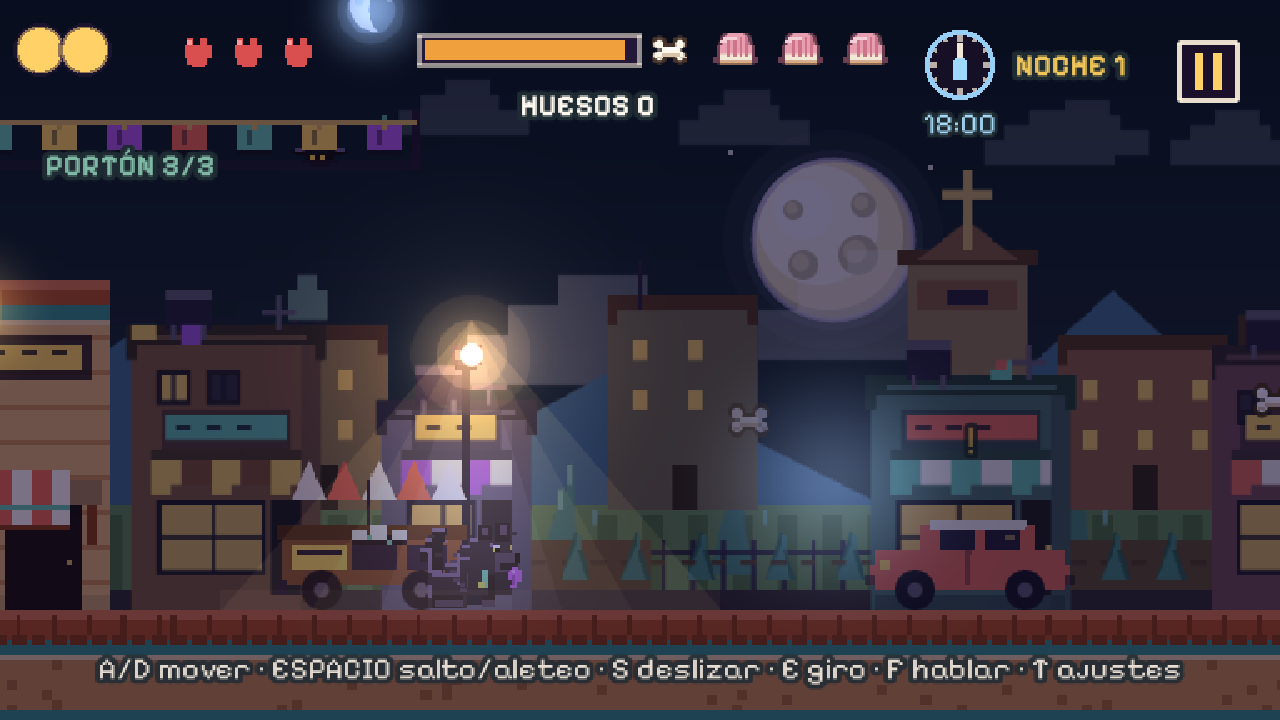
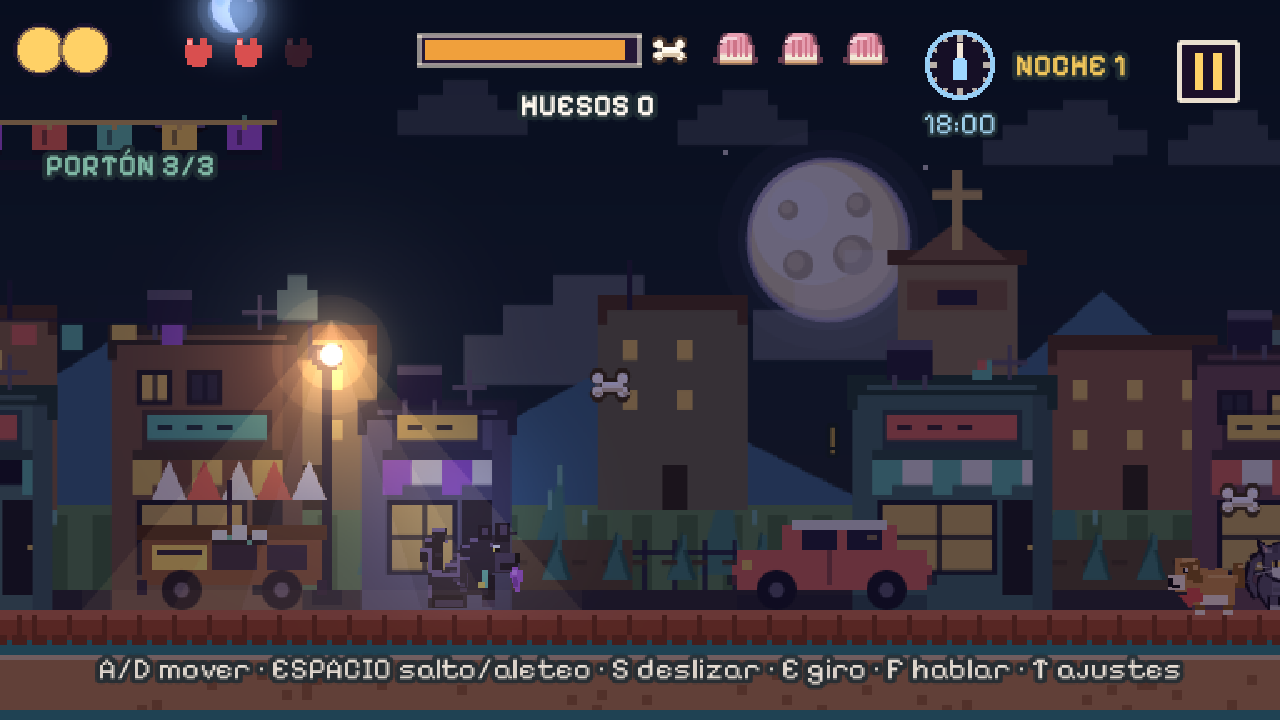
Keep moon glow behind the buildings

diff --git a/src/scenes/Level1.js b/src/scenes/Level1.js
@@ -2646,28 +2646,9 @@ export default class Level1 extends Phaser.Scene {
       if (bloom.length >= BLOOM_MAX) break;
     }
 
-    if (this.phase === 'day' && this.sun?.visible && this.sun.alpha > 0.05) {
-      pushBloom(
-        this.sun.x - cam.scrollX * this.sun.scrollFactorX,
-        this.sun.y - cam.scrollY * this.sun.scrollFactorY,
-        28 * S,
-        0.18 * this.sun.alpha,
-        SUN_BLOOM_COLOR,
-      );
-    } else if (
-      this.phase === 'night' &&
-      this.moon?.visible &&
-      this.moon.alpha > 0.05
-    ) {
-      pushBloom(
-        this.moon.x - cam.scrollX * this.moon.scrollFactorX,
-        this.moon.y - cam.scrollY * this.moon.scrollFactorY,
-        40 * S,
-        0.3 * this.moon.alpha,
-        MOON_BLOOM_COLOR,
-      );
-    }
-
+    // The sun and moon keep their baked halos in the background layers. They
+    // deliberately do not join the screen-space bloom, which cannot respect
+    // building depth and would shine through roofs.
     for (const spark of this.sparkPoles || []) {
       if (bloom.length >= BLOOM_MAX) break;
       if (!spark.live || !spark.glow?.visible) continue;

diff --git a/src/ui/LightingPostFX.js b/src/ui/LightingPostFX.js
@@ -101,7 +101,7 @@ void main () {
  * A screen-space night-lighting and selective-bloom pass. On WebGL the HUD is
  * rendered by a second camera, so this only affects the world: ambient darkness
  * is multiplied in, street lamps carve warm or spark-blue pools out of it, and
- * a small set of emissive points (shards, lamps, signs, sun/moon) receive a soft
+ * a small set of emissive points (shards, lamps and signs) receive a soft
  * additive bloom. Nothing here blurs or darkens the UI.
  */
 export default class LampLightingPipeline extends Phaser.Renderer.WebGL.Pipelines.PostFXPipeline {

diff --git a/README.md b/README.md
@@ -76,12 +76,14 @@ The game itself now starts in Spanish.
   On WebGL, a screen-space night pass darkens the world to a cool moonlit
   ambient and lets the lamps carve warm pools out of it; Bonjo carries a faint
   cool halo so he stays readable between lamps. The same pass adds a light
-  selective bloom to sun/moon shards, lamp bulbs, neon signs and the sun/moon,
-  while live sparking lamps shift to a cold blue glow. The HUD and cards render
-  on a separate clean camera, and Canvas keeps the original flat night wash,
-  cones and glows. Three damaged lamps use the same post art but warn with a
-  flicker, then send a low electric arc across the ground. Wait for the safe
-  window or jump over it; contact costs one heart and knocks Bonjo back.
+  selective bloom to sun/moon shards, lamp bulbs, neon signs and live spark
+  arcs, while live sparking lamps shift to a cold blue glow. The sun and moon
+  keep their baked, depth-correct halos instead of joining the screen-space
+  bloom. The HUD and cards render on a separate clean camera, and Canvas keeps
+  the original flat night wash, cones and glows. Three damaged lamps use the
+  same post art but warn with a flicker, then send a low electric arc across the
+  ground. Wait for the safe window or jump over it; contact costs one heart and
+  knocks Bonjo back.
 - **High routes:** one-way fire escapes, laundry lines and terracotta rooftops
   climb above the street. Higher tiers carry bones, conchas and high piñatas;
   practice the flap-and-glide chain to reach them.

diff --git a/DESIGN.md b/DESIGN.md
@@ -350,10 +350,12 @@ FLORES...) float above the awnings. On WebGL, a screen-space night pass
 moonlit ambient. Each lit lamp carves a warm pool out of that darkness, and
 Bonjo carries a faint cool halo so he stays readable between lamps. The same
 pass runs a lightweight selective bloom on up to eight emissive points:
-sun/moon shards, lamp bulbs, neon signs and the sun or moon. Live sparking
-lamps switch their pool and bloom to a cold blue-white. The world and lighting
-are rendered by the main camera; the HUD and every card render on a second clean
-camera, so text never sits inside the darkening pass. The pass caps at eight
+sun/moon shards, lamp bulbs, neon signs and live spark arcs. Live sparking
+lamps switch their pool and bloom to a cold blue-white. The sun and moon keep
+their baked halos in the background layers, so their shine is occluded by
+buildings instead of painting over them. The world and lighting are rendered
+by the main camera; the HUD and every card render on a second clean camera, so
+text never sits inside the darkening pass. The pass caps at eight
 screen-space lamps and eight bloom points, and follows each lamp sprite's alpha,
 so a sparking lamp dims its pool during the live-wire phase. Canvas rendering
 skips the pipeline, the HUD camera and the shader ambient, keeping the original
